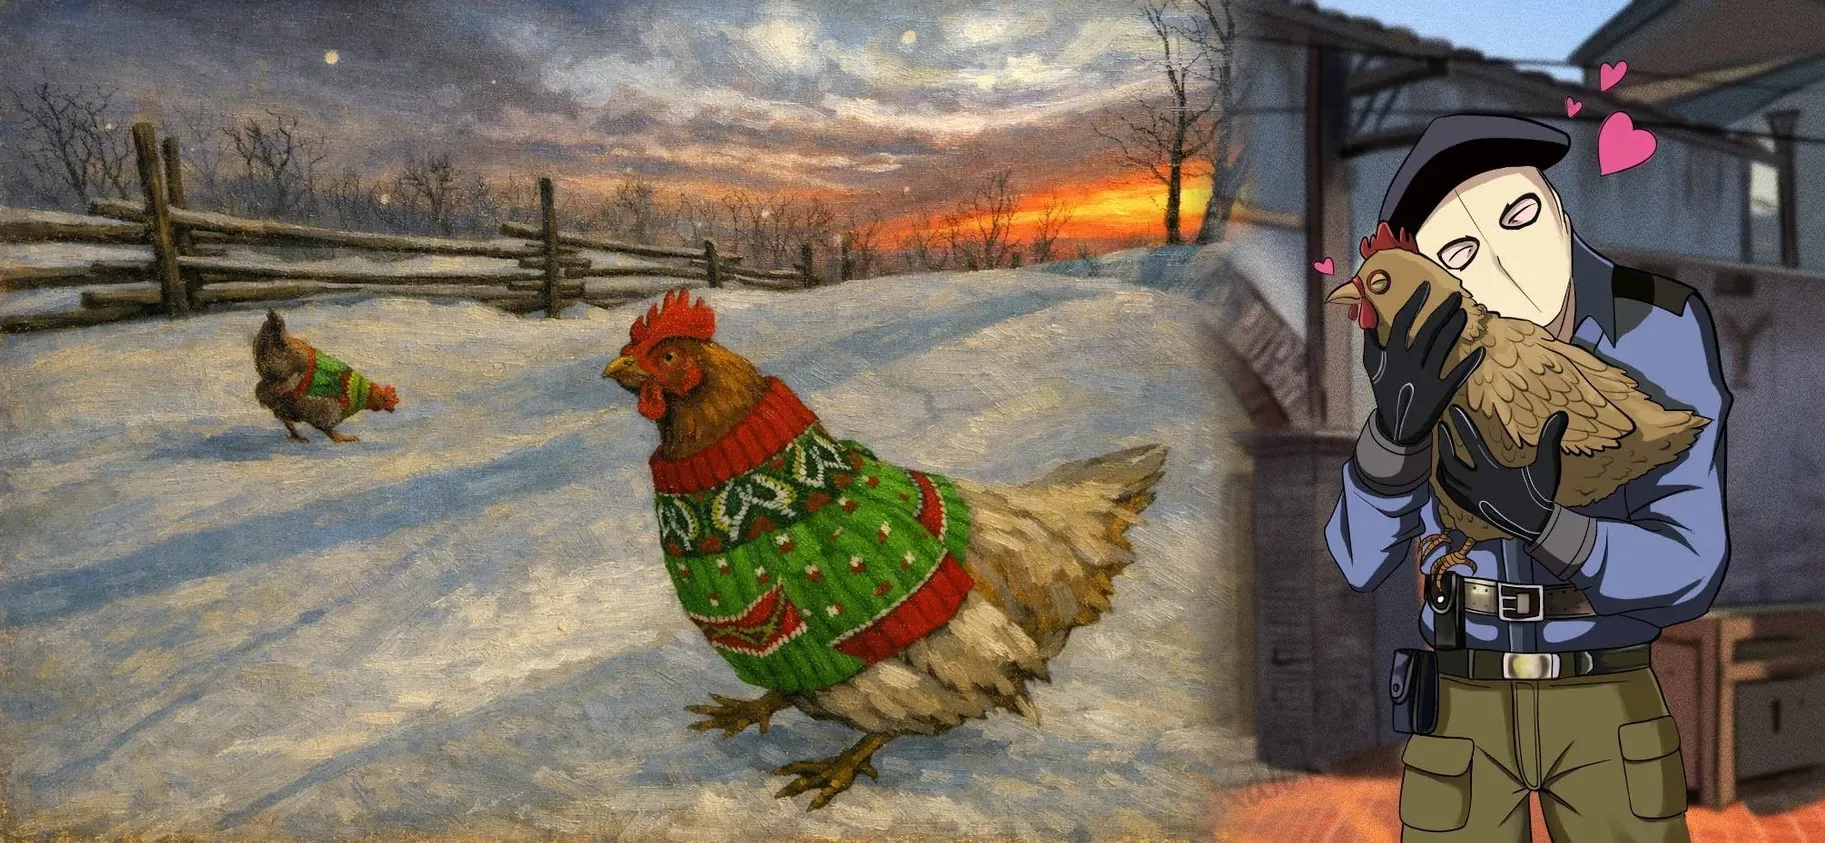
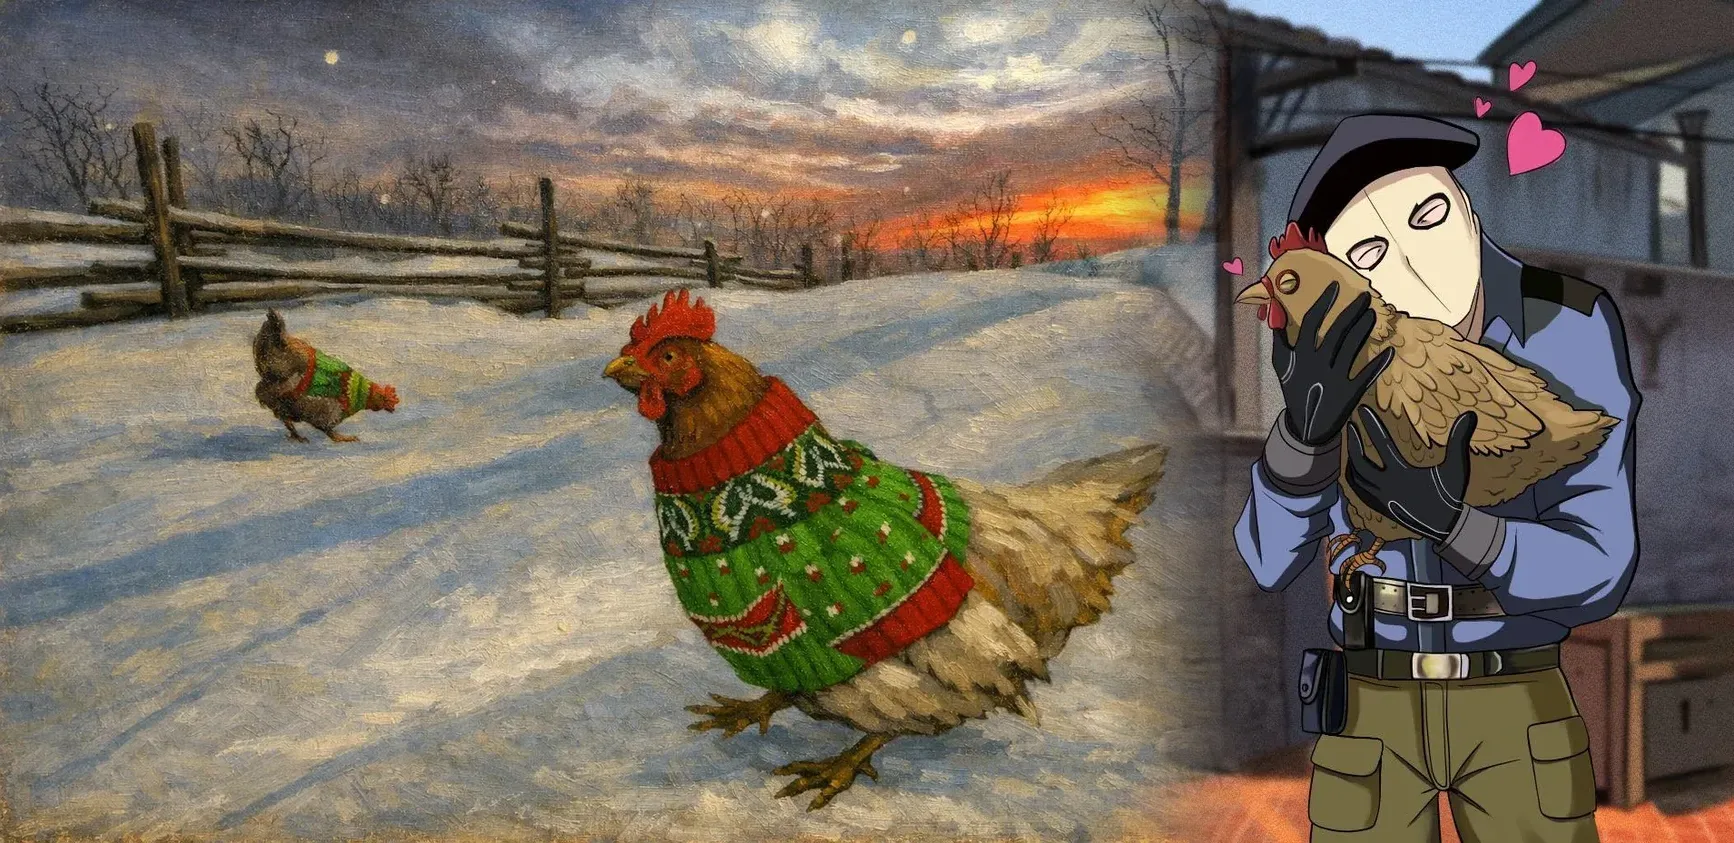
Narrow the lobby and smooth the hero blend

diff --git a/web/src/app.css b/web/src/app.css
@@ -98,14 +98,14 @@ a.button.primary:hover { background: #ffbe57; }
 @media (max-width: 900px) { .lobby-grid { grid-template-columns: minmax(0, 1fr); } }
 /* hero: one click into a game and what's going on right now. The picture (web/img/hero.webp) is shown whole,
    fitted to the hero's height on the right, and fades into black on its left edge. */
-/* hero and server list: centred, up to 1560px, with side margins that grow with the window */
-.hero, .lobby-grid { width: min(1560px, calc(100% - 2 * clamp(16px, 4vw, 72px))); margin-inline: auto; }
+/* hero and server list: centred, up to 1320px, with side margins that grow with the window */
+.hero, .lobby-grid { width: min(1320px, calc(100% - 2 * clamp(16px, 7vw, 140px))); margin-inline: auto; }
 .hero {
   --go: var(--hud); position: relative; isolation: isolate; overflow: hidden; margin-top: 24px; padding: 30px 44px 28px;
   border: 1px solid #222; border-radius: 10px; background: #050505;
 }
 .hero::after {
-  content: ""; position: absolute; top: 0; right: 0; bottom: 0; z-index: -1; aspect-ratio: 1825 / 843;
+  content: ""; position: absolute; top: 0; right: 0; bottom: 0; z-index: -1; aspect-ratio: 1734 / 843;
   background: url("/img/hero.webp") right center / contain no-repeat;
   -webkit-mask-image: linear-gradient(90deg, transparent 0, rgba(0, 0, 0, .15) 18%, rgba(0, 0, 0, .7) 42%, #000 62%);
   mask-image: linear-gradient(90deg, transparent 0, rgba(0, 0, 0, .15) 18%, rgba(0, 0, 0, .7) 42%, #000 62%);
